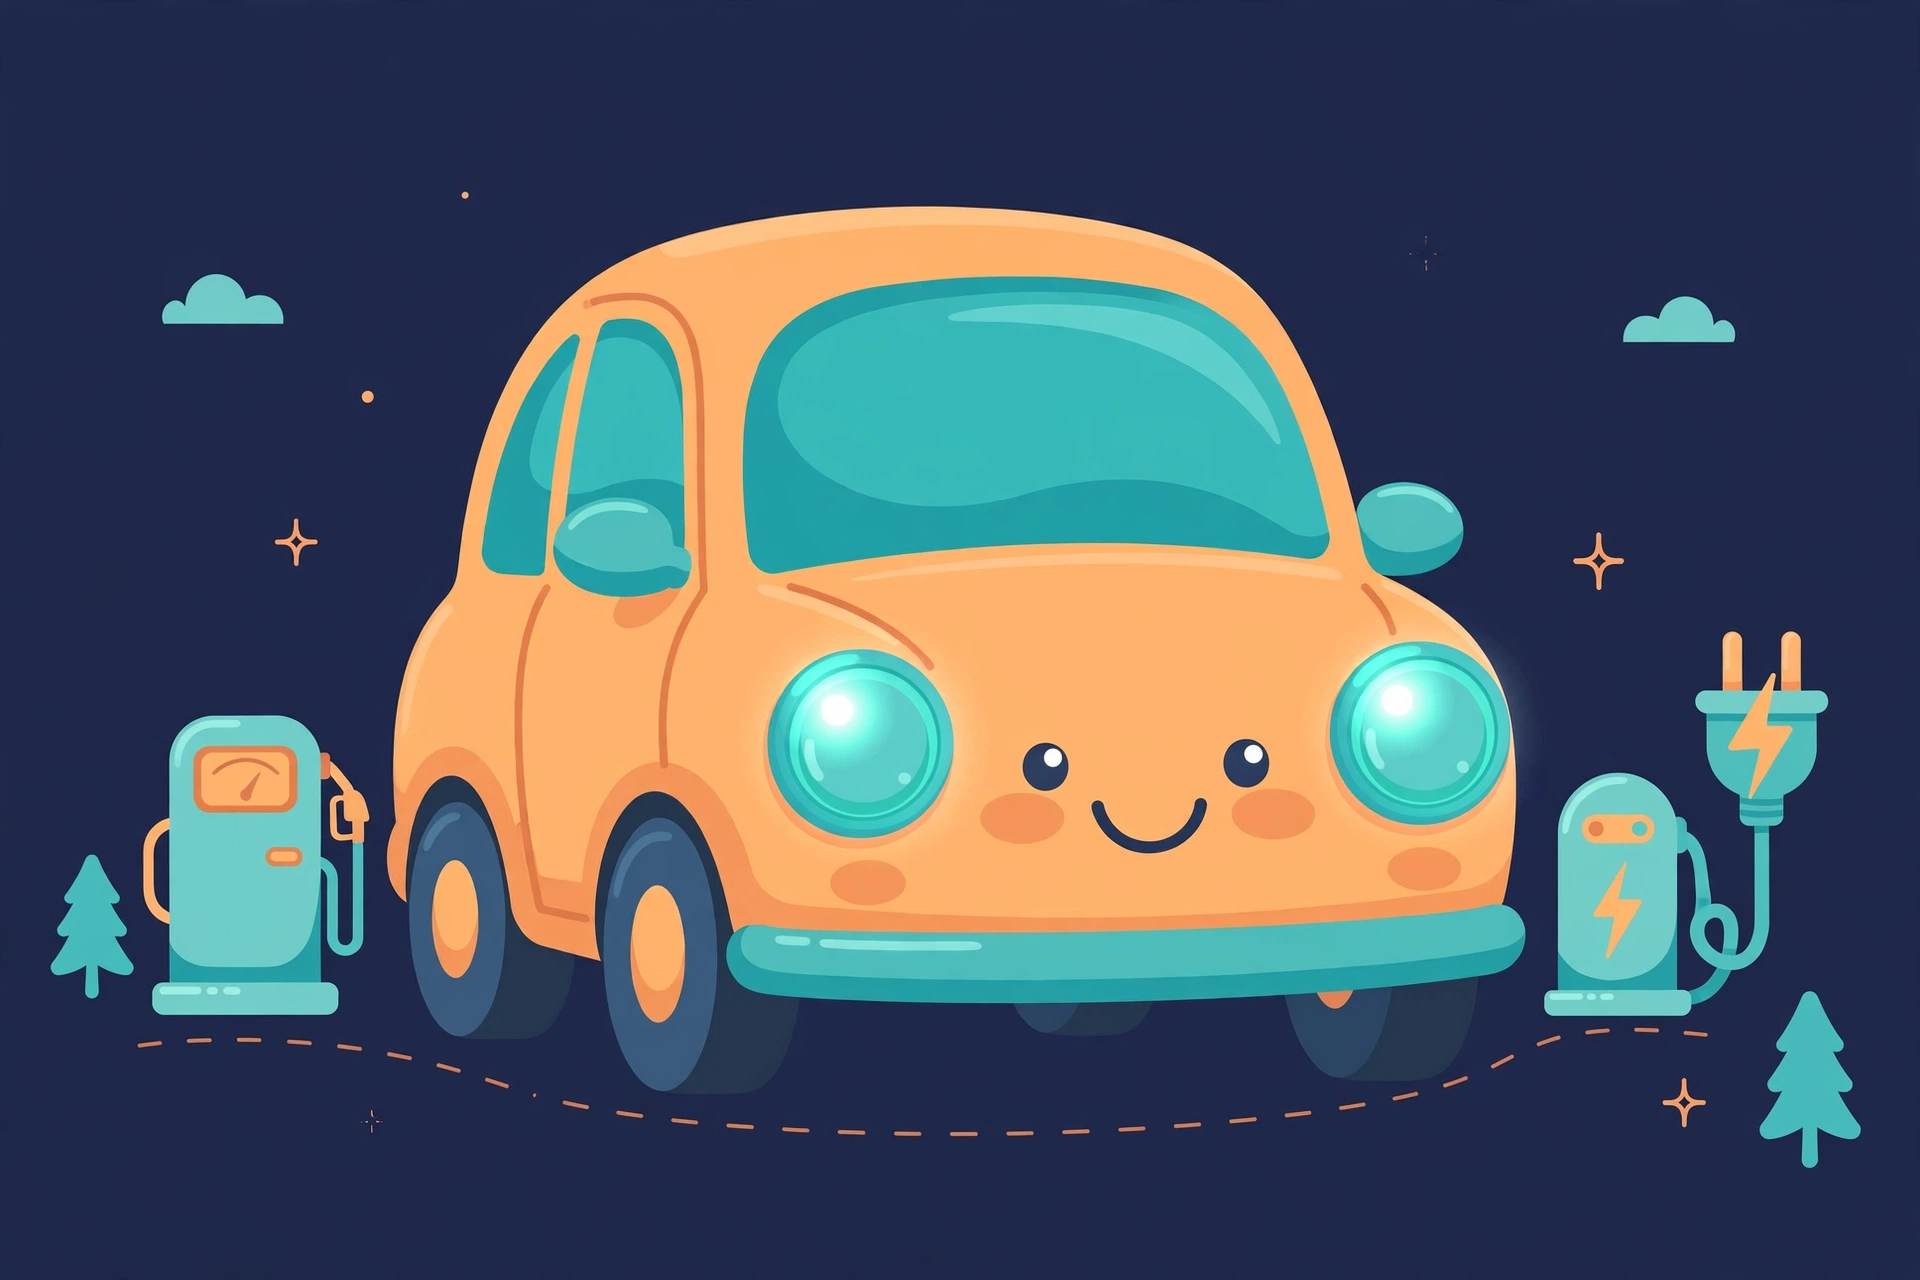
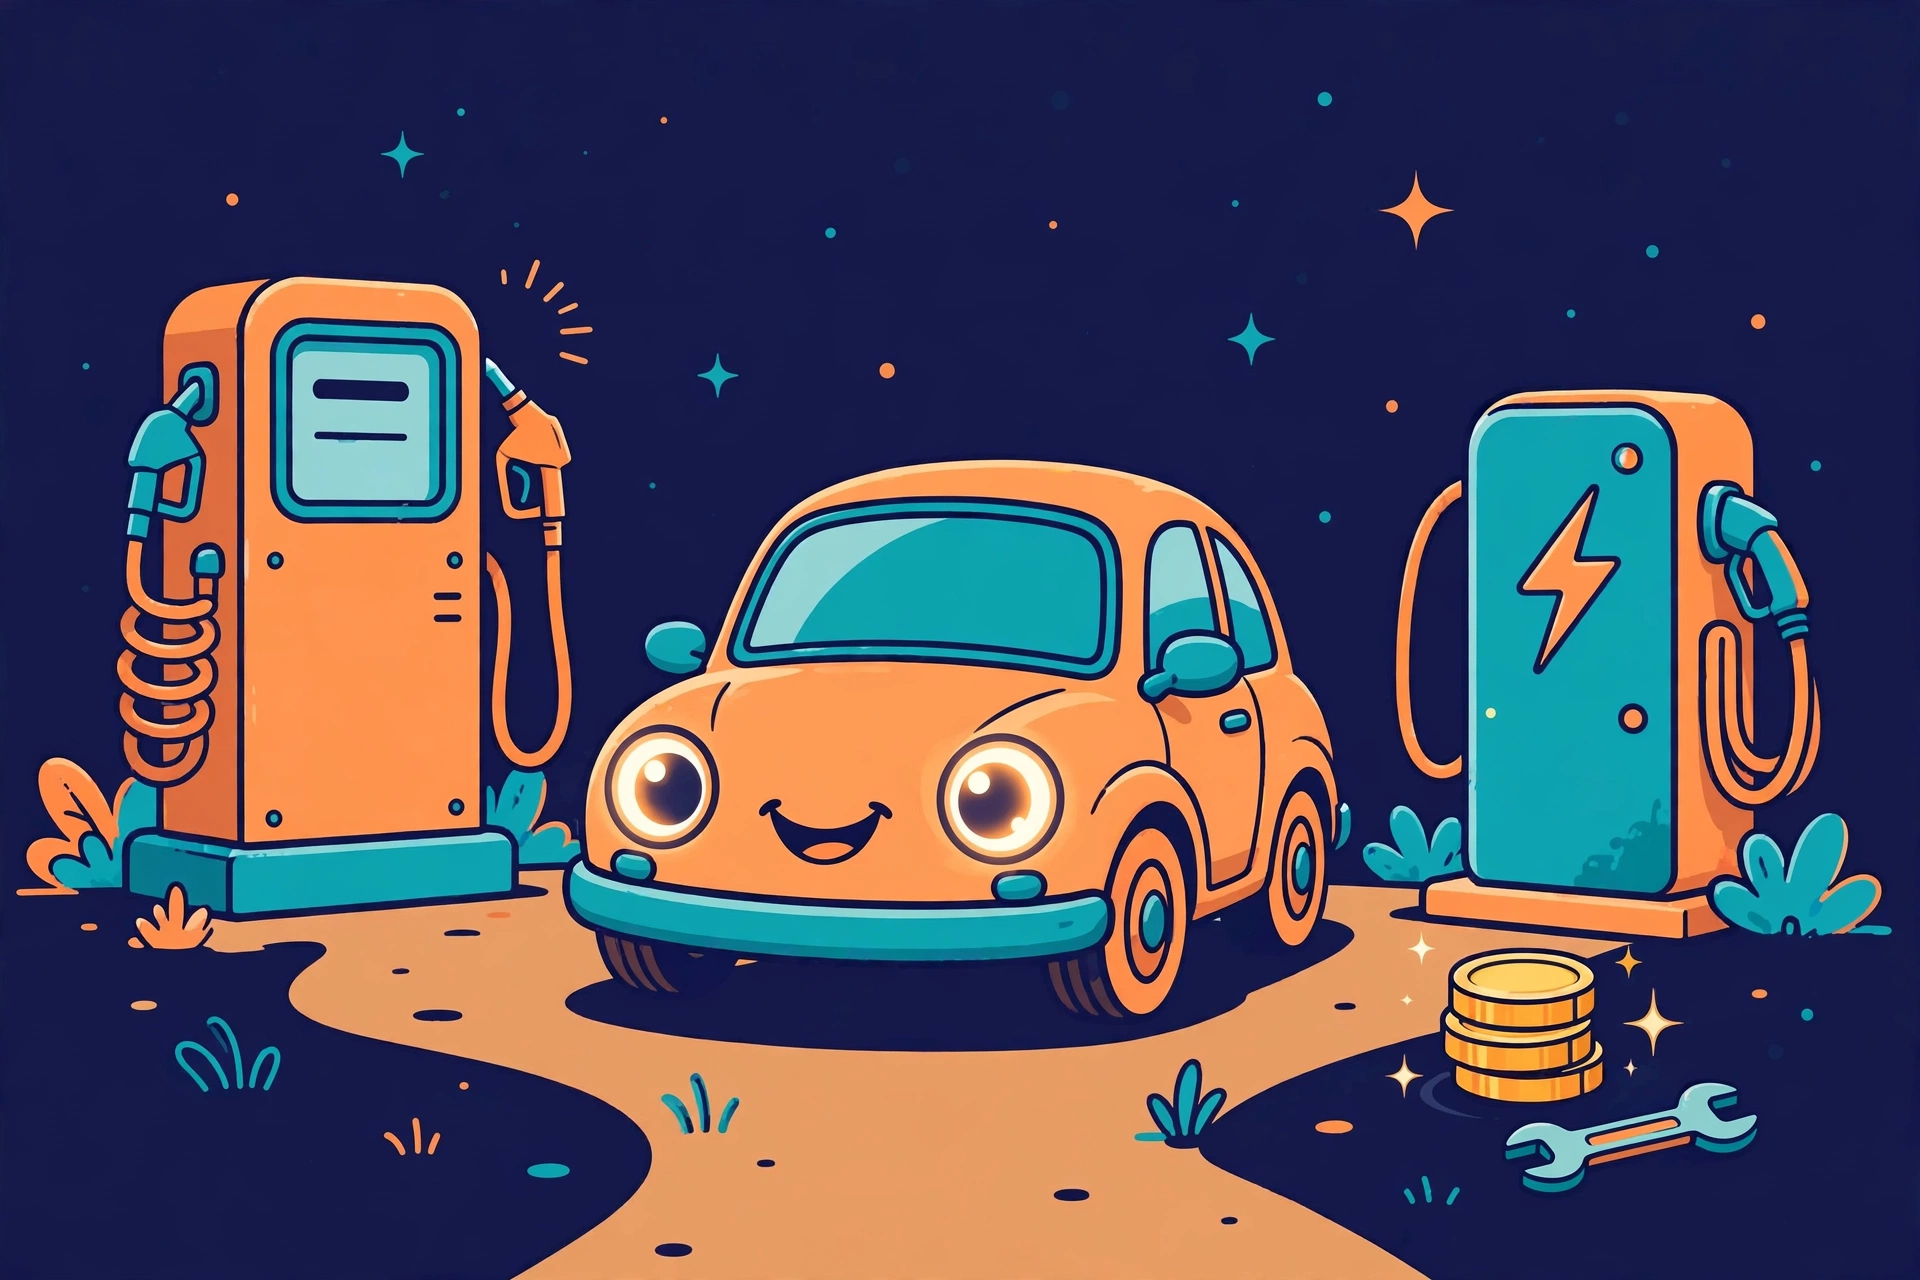
Artwork refresh: 12 sections + 2 decide paths in new cartoon quality
- Regenerated auto, business, family, health, housing, insurance,
  investing, military, personal, retirement, students, taxes
- New dedicated images: buy-or-rent (house vs apartment), refinance
- Varied characters throughout; buy-or-rent path no longer reuses housing art

diff --git a/money/decide/should-i-refinance/index.html b/money/decide/should-i-refinance/index.html
@@ -38,7 +38,7 @@ footer{color:#7d8698;font-size:.8rem;text-align:center;margin-top:44px}
 @media(max-width:640px){.hs-hero{min-height:165px;margin:14px 0 22px}.hs-hero h1{padding:22px 20px}}
 </style><a class="back-link" href="/money/decide/">← Decision Center</a>
 <div class="hs-hero">
-  <img src="/money/images/housing.webp" alt="" aria-hidden="true">
+  <img src="/money/images/refinance.webp" alt="" aria-hidden="true">
   <div class="shade"></div>
   <h1 class="hs-hero-title">Should I refinance my mortgage?</h1>
 </div>

diff --git a/money/decide/buy-or-rent/index.html b/money/decide/buy-or-rent/index.html
@@ -38,7 +38,7 @@ footer{color:#7d8698;font-size:.8rem;text-align:center;margin-top:44px}
 @media(max-width:640px){.hs-hero{min-height:165px;margin:14px 0 22px}.hs-hero h1{padding:22px 20px}}
 </style><a class="back-link" href="/money/decide/">← Decision Center</a>
 <div class="hs-hero">
-  <img src="/money/images/housing.webp" alt="" aria-hidden="true">
+  <img src="/money/images/buy-or-rent.webp" alt="" aria-hidden="true">
   <div class="shade"></div>
   <h1 class="hs-hero-title">Should I buy or rent?</h1>
 </div>

diff --git a/build-decide.py b/build-decide.py
@@ -78,7 +78,7 @@ DECISIONS = [
       together=("If all three numbers fit comfortably — the price is in your range, the payment leaves "
                 "breathing room, and you have the cash — you can afford the house. If any one of them "
                 "is a stretch, the honest answer is not yet.")),
- dict(slug="buy-or-rent", img="housing",
+ dict(slug="buy-or-rent", img="buy-or-rent",
       q="Should I buy or rent?",
       sub="It's not a lifestyle question first. It's a math question first.",
       intro=("Buying isn't automatically smarter than renting — it depends on prices, rents, how long "
@@ -167,7 +167,7 @@ DECISIONS = [
       ],
       together=("Fund the emergency cushion first, then automate monthly savings from your budget surplus. "
                 "The compound interest calculator shows you why starting now matters more than the amount.")),
- dict(slug="should-i-refinance", img="housing",
+ dict(slug="should-i-refinance", img="refinance",
       q="Should I refinance my mortgage?",
       sub="A lower rate is only half the story. The fees are the other half.",
       intro=("Refinancing trades a lower rate for upfront closing costs. It only wins if you keep the "
